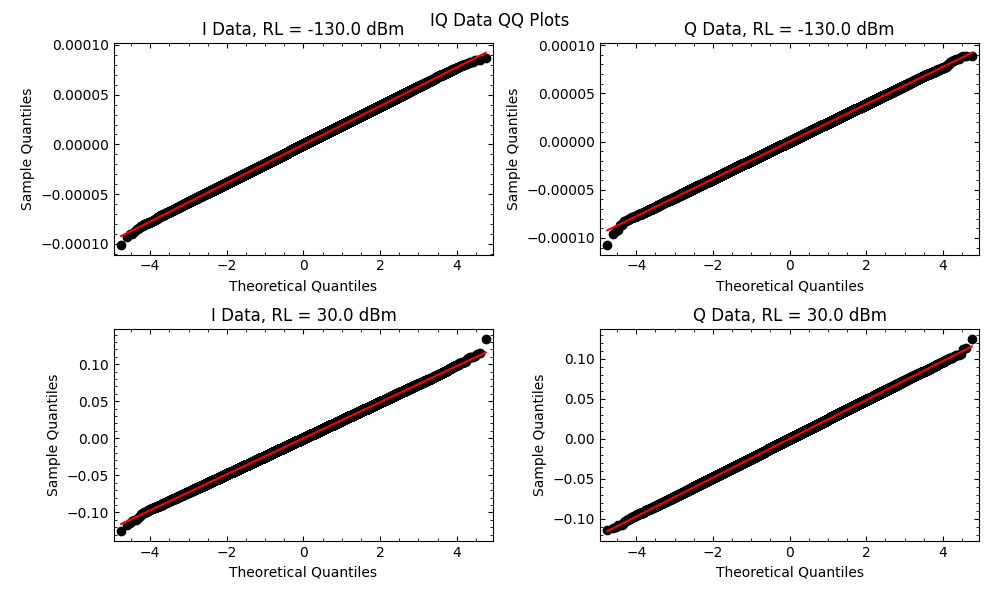
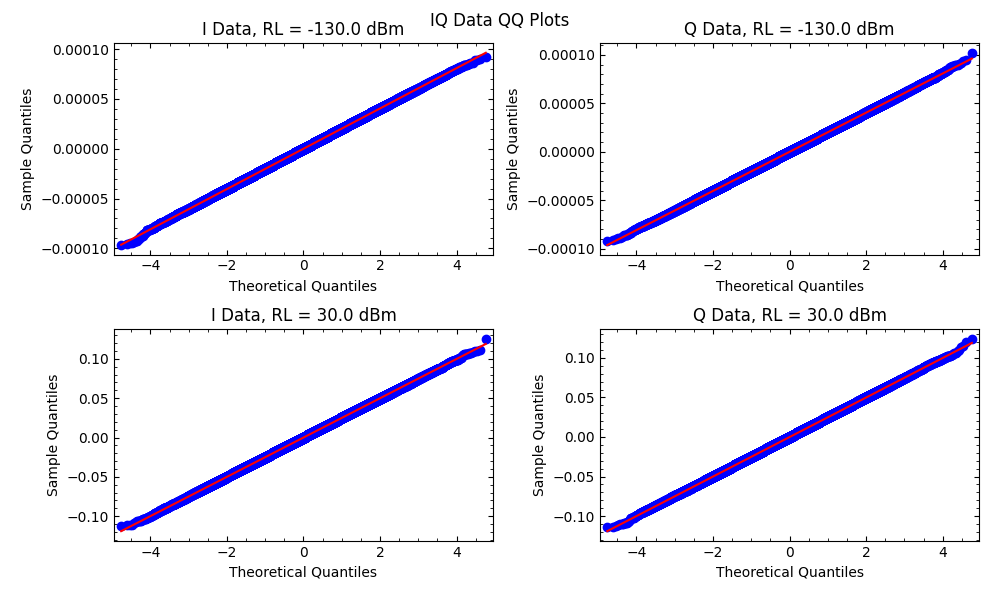
Updated QQ Plot colors

diff --git a/testbed.py b/testbed.py
@@ -569,8 +569,8 @@ def gainChar_normTests(iqData, refLevels):
         qData = np.imag(iqData[i])
 
         # Make QQ Plots
-        sm.qqplot(iData, line='s', ax=ax[i][0], color='k', label="I Data")
-        sm.qqplot(qData, line='s', ax=ax[i][1], color='k', label="Q Data")
+        sm.qqplot(iData, line='s', ax=ax[i][0], color='b', label="I Data")
+        sm.qqplot(qData, line='s', ax=ax[i][1], color='b', label="Q Data")
         ax[i][0].set_title("I Data, RL = {} dBm".format(refLev))
         ax[i][1].set_title("Q Data, RL = {} dBm".format(refLev))
 
@@ -631,7 +631,7 @@ def gainChar_normTests(iqData, refLevels):
     plt.tight_layout(1.5, h_pad=1, w_pad=1)
     # For some reason, showing the QQ plots causes matplotlib to freeze
     # It still works, but temporarily disabled for this reason
-    #plt.show()
+    plt.show()
 
 def findNearest(arr, val):
     # Return index of array element nearest to value
@@ -644,4 +644,5 @@ def findNearest(arr, val):
 #wifi_fft(iqBw=2.25e7)
 #sr_test_fft(cf=4000e6)
 #gain_char(-130, 30, 50)
-gain_char(-70, -50, 3, fftPlot=True, noiseFig=False, trunc1=True)
+#gain_char(-70, -50, 3, fftPlot=True, noiseFig=False, trunc1=True)
+gain_char(-130, 30, 2, trunc=True, normTest=True)
